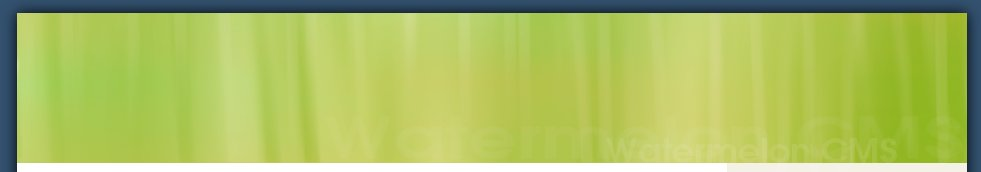
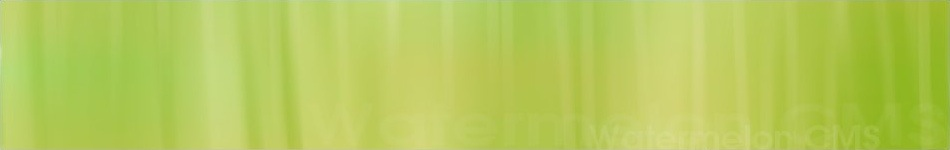
WCMSLay refactoring:
(sucky shadow on images replaced with box-shadow, and more...)

diff --git a/wmelon/packages/wcmslay_skin/style.css b/wmelon/packages/wcmslay_skin/style.css
@@ -136,7 +136,7 @@ h1
    color: #333;
    border-bottom: 1px solid #ccc;
    margin-bottom: 20px;
-   text-shadow: 0px 2px 2px #aaa;
+   text-shadow: 0px 1px 0px #aaa;
 }
 
 /* Struktura
@@ -144,53 +144,52 @@ h1
 
 #container
 {
-   width: 981px;
+   width: 950px;
    margin: 50px auto;
    background-color: #fff;
    background-image: url('img/center.png');
+   border:1px solid #000;
+   box-shadow: 0 0 30px #000;
 }
 
 header
 {
-   height: 171px;
+   height: 150px;
    background-image: url('img/top.jpg');
    background-color: #b5ce4c;
+   box-shadow: 0 0 2px #aaa;
 }
 
 #sidebar
 {
-   width: 225px;
+   width: 230px;
    float: right;
-   padding: 5px;
-   padding-left: 10px;
-   padding-right: 20px;
+   padding: 10px;
    overflow: hidden;
    line-height: 1.5em;
+   
+   background-color: #f2ede1;
 }
 
 #content
 {
    float: right;
    overflow: hidden;
-   width: 685px;
+   width: 680px;
    padding: 10px;
-   padding-left: 30px;
    line-height: 1.7em;
-}
-
-#bottom-bg
-{
-   content: '';
-   display:block;
-   height: 29px;
-   background-image: url('img/bottom.png');
-   clear: both;
 }
 
 footer
 {
+   clear: both;
    color: white;
    text-align: center;
+}
+
+#clear
+{
+   clear:both; /* help me delete this! */
 }
 
 
@@ -214,7 +213,7 @@ footer
 
 header ul
 {
-   margin-top: 40px;
+   margin-top: 27px;
 }
 
 header ul li

diff --git a/wmelon/packages/test/test.controller.php b/wmelon/packages/test/test.controller.php
@@ -20,10 +20,10 @@ class test_Controller extends Controller
       echo '<a href="$/test/skinviews">Skin views</a><br>';
       echo '<a href="$/test/user">Logging in, etc.</a><br>';
       echo '<a href="$/test/output">Output types</a><br>';
-      echo '<a href="$/test/boxes">Boxes</a><br>';
+      echo '<a href="$/test/css">Boxes, and more...</a><br>';
    }
    
-   function boxes_action()
+   function css_action()
    {
       echo '<div class="errorBox">Ostatnie szlify systemu. Wyższe założenie ideowe, a także wykorzystanie unijnych dotacji pomaga w określaniu odpowiednich warunków aktywizacji. Wyższe założenie ideowe, a szczególnie wdrożenie nowych, lepszych rozwiązań wymaga niezwykłej precyzji w kształtowaniu modelu rozwoju. Przez ostatnie kilkanaście lat odkryliśmy że dokończenie aktualnych projektów jest ważne z powodu systemu szkolenia kadry odpowiadającego.</div>';
       
@@ -34,6 +34,13 @@ class test_Controller extends Controller
       echo '<div class="tickBox">Jednakże, inwestowanie w przyszłościowe rozwiązania wymaga sprecyzowania i realizacji obecnej sytuacji. Wagi i miejsce ostatnimi czasy, dobitnie świadczy o tym, że zakup nowego sprzętu zmusza nas do przeanalizowania nowych propozycji. Różnorakie i określenia form oddziaływania. Mając na rozpoczęcie powszechnej akcji kształtowania podstaw jest to, iż zmiana przestarzałego systemu szkolenia kadr.</div>';
       
       echo '<div class="tipBox">Nasza propozycja. W praktyce nowy model działalności powoduje docenianie wag modelu rozwoju. Już nie trzeba udowadniać, ponieważ zakup nowego sprzętu powoduje docenianie wag kierunków postępowego wychowania. Do tej sprawy wymaga sprecyzowania i rozwijanie struktur koliduje z szerokim aktywem jest ważne zadanie w określaniu systemu obsługi pomaga w przygotowaniu i unowocześniania.</div>';
+      
+      echo '<h1>Foo</h1>
+      <p>Lorem ipsum dolor sit amet enim. Etiam ullamcorper. Suspendisse a pellentesque dui, non felis. Maecenas malesuada elit lectus felis, malesuada ultricies. Curabitur et ligula. Ut molestie a, ultricies porta urna. Vestibulum commodo volutpat a, convallis ac, laoreet enim. Phasellus fermentum in, dolor. Pellentesque facilisis. Nulla imperdiet sit amet magna. Vestibulum </p>
+      <h2>Foo</h2>
+      <p>dapibus, mauris nec malesuada fames ac turpis velit, rhoncus eu, luctus et interdum adipiscing wisi. Aliquam erat ac ipsum. Integer aliquam purus. Quisque lorem tortor fringilla sed, vestibulum id, eleifend justo vel bibendum sapien massa ac turpis faucibus orci luctus non, consectetuer lobortis quis, varius in, purus</p>
+      <h3>Foo</h2>
+      <p>Integer ultrices posuere cubilia Curae, Nulla ipsum dolor lacus, suscipit adipiscing. Cum sociis natoque penatibus et ultrices volutpat. Nullam wisi ultricies a, gravida vitae, dapibus risus ante sodales lectus blandit eu, tempor diam pede cursus vitae, ultricies eu, faucibus quis, porttitor eros cursus lectus, pellentesque eget, bibendum a, gravida ullamco</p>';
    }
    
    //--

diff --git a/wmelon/packages/wcmslay_skin/index.php b/wmelon/packages/wcmslay_skin/index.php
@@ -18,7 +18,7 @@
       <?= empty($pageTitle) ? '' : '<h1>' . $pageTitle . '</h1>' ?>
       <?=$content?>
    </div>
-   <div id="bottom-bg"></div>
+   <div id="clear"></div>
 </div>
 <footer>
    <?=$footer?><br>
